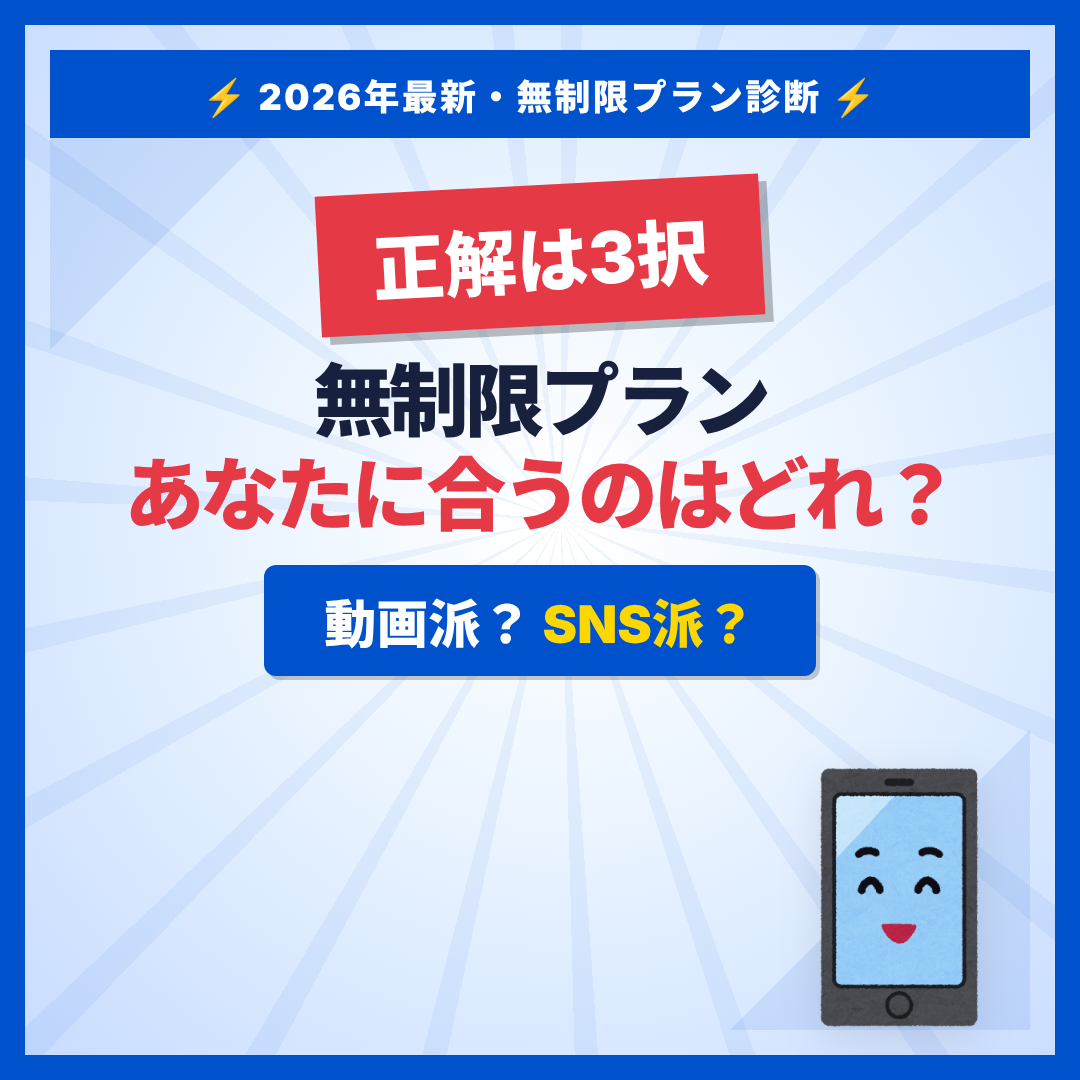
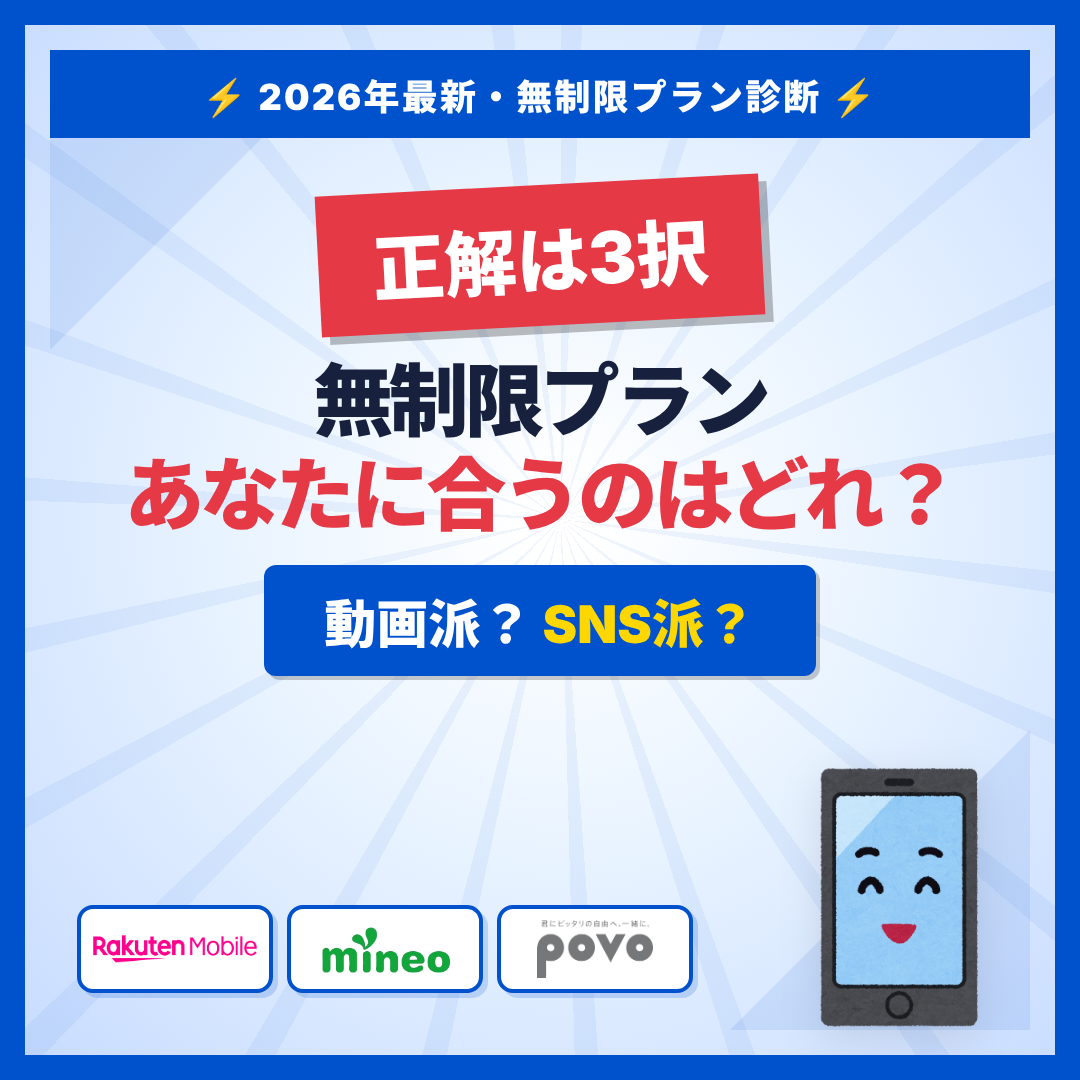
改修

Changed region(s): [[0.0611, 0.825, 0.6722, 0.9472]]

diff --git a/slides-short.html b/slides-short.html
@@ -207,6 +207,39 @@ img {
   height: 286px;
 }
 
+/* いらすとや左側の余白に、扱う3ブランドのロゴを横並びで置く */
+.thumb-logo-row {
+  position: absolute;
+  left: 52px;
+  bottom: 62px;
+  z-index: 2;
+  display: flex;
+  gap: 14px;
+}
+
+.thumb-logo-card {
+  display: flex;
+  align-items: center;
+  justify-content: center;
+  width: 220px;
+  height: 120px;
+  padding: 12px 16px;
+  overflow: hidden;
+  border: 4px solid var(--blue);
+  border-radius: 16px;
+  background: #fff;
+  box-shadow: 5px 5px 0 rgba(0,82,204,0.18);
+}
+
+/* 素材ごとに縦横比が大きく違うため、% ではなく px で上限を切る */
+.thumb-logo-card img {
+  width: auto;
+  height: auto;
+  max-width: 164px;
+  max-height: 64px;
+  filter: none;
+}
+
 /* Slide 2 */
 .report-header-card {
   display: flex;
@@ -695,6 +728,11 @@ img {
     <div class="thumb-tag">正解は3択</div>
     <h1>無制限プラン<br><em>あなたに合うのはどれ？</em></h1>
     <div class="thumb-sub-band">動画派？ <b>SNS派？</b></div>
+  </div>
+  <div class="thumb-logo-row">
+    <span class="thumb-logo-card"><img src="public/images/logo/Mobile_logo_1line_magenta.png" alt="楽天モバイル"></span>
+    <span class="thumb-logo-card"><img src="public/images/logo/Mineo_logo.png" alt="mineo"></span>
+    <span class="thumb-logo-card"><img src="public/images/logo/Povo_logo.png" alt="povo"></span>
   </div>
   <div class="slide-illust thumb-illust" style="z-index: 2;">
     <img src="public/images/irasutoya/smartphone04_laugh.png" alt="スマートフォンを楽しむ人">

diff --git a/scripts/generate_short_slides_38.py b/scripts/generate_short_slides_38.py
@@ -127,6 +127,11 @@ def render_thumbnail(slide: Slide) -> str:
     <h1>{esc(title)}<br><em>あなたに合うのはどれ？</em></h1>
     <div class="thumb-sub-band">動画派？ <b>SNS派？</b></div>
   </div>
+  <div class="thumb-logo-row">
+    <span class="thumb-logo-card"><img src="{asset("logo/Mobile_logo_1line_magenta.png")}" alt="楽天モバイル"></span>
+    <span class="thumb-logo-card"><img src="{asset("logo/Mineo_logo.png")}" alt="mineo"></span>
+    <span class="thumb-logo-card"><img src="{asset("logo/Povo_logo.png")}" alt="povo"></span>
+  </div>
   <div class="slide-illust thumb-illust" style="z-index: 2;">
     <img src="{asset("irasutoya/smartphone04_laugh.png")}" alt="スマートフォンを楽しむ人">
   </div>
@@ -482,6 +487,39 @@ img {
   right: 38px;
   bottom: 14px;
   height: 286px;
+}
+
+/* いらすとや左側の余白に、扱う3ブランドのロゴを横並びで置く */
+.thumb-logo-row {
+  position: absolute;
+  left: 52px;
+  bottom: 62px;
+  z-index: 2;
+  display: flex;
+  gap: 14px;
+}
+
+.thumb-logo-card {
+  display: flex;
+  align-items: center;
+  justify-content: center;
+  width: 196px;
+  height: 88px;
+  padding: 12px 16px;
+  overflow: hidden;
+  border: 4px solid var(--blue);
+  border-radius: 16px;
+  background: #fff;
+  box-shadow: 5px 5px 0 rgba(0,82,204,0.18);
+}
+
+/* 素材ごとに縦横比が大きく違うため、% ではなく px で上限を切る */
+.thumb-logo-card img {
+  width: auto;
+  height: auto;
+  max-width: 164px;
+  max-height: 58px;
+  filter: none;
 }
 
 /* Slide 2 */
